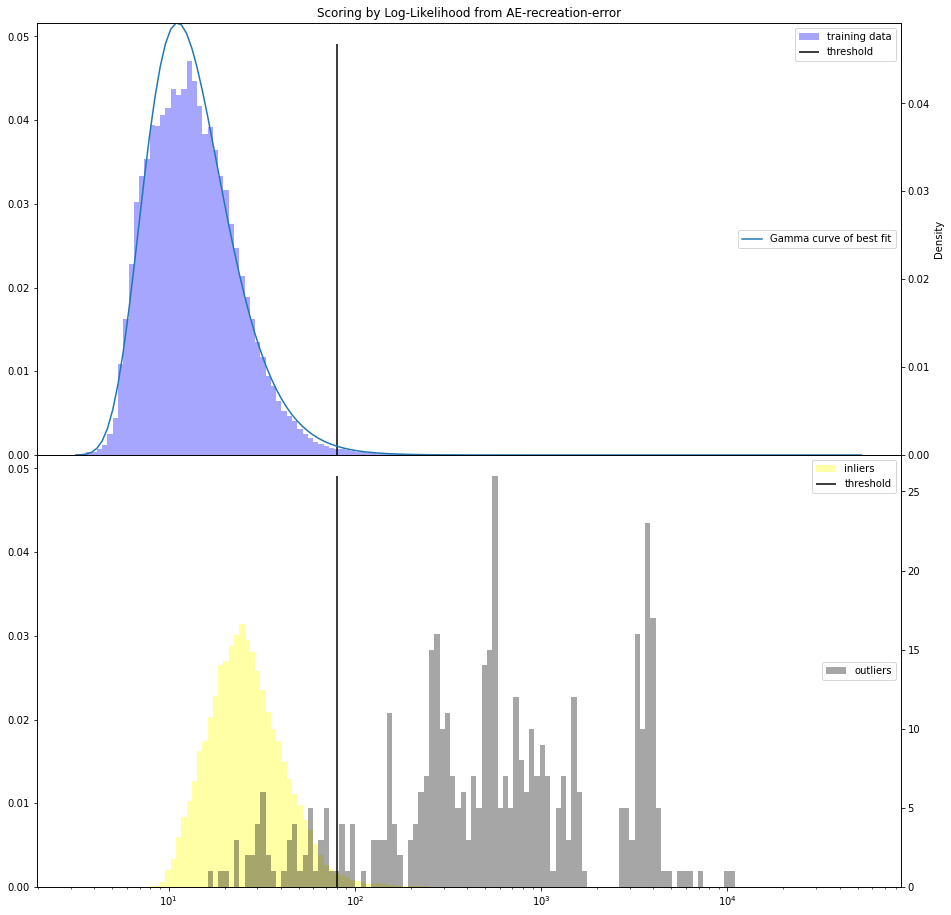
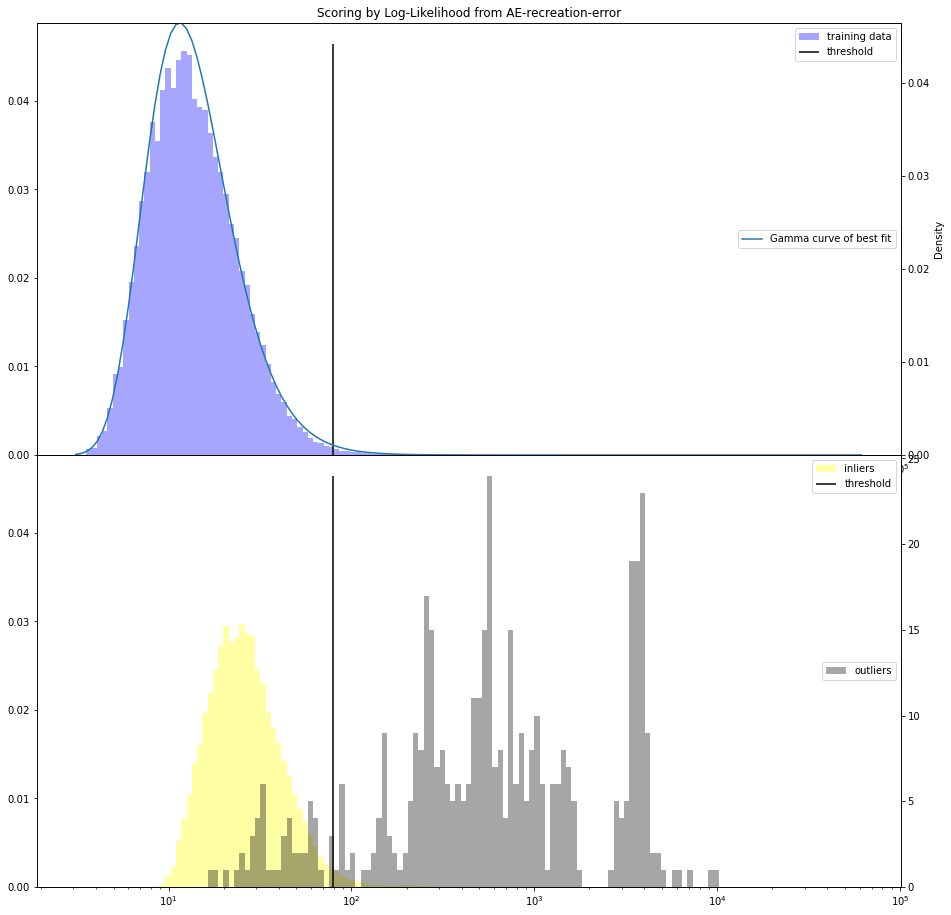
Sync Graphs and result text

diff --git a/README.md b/README.md
@@ -5,6 +5,7 @@ Exam project comparing two different machine learning models (KNN and AE) on a d
 You will need to download the data from: https://www.kaggle.com/mlg-ulb/creditcardfraud, and place it in the data folder to run the project. On the first ever execution, the preprocessing code will do all the nesecarry changes to this file and place the results under the data folder
 
 # Running the project:
+The easiest way to run the project is through Anaconda Spyder, but you can also run the project from the terminal
 ## KNN
 The KNN model has to be run from the src folder, from there run the knndist.py file either in and IDE or from the terminal.
 
@@ -17,96 +18,97 @@ Like KNN, but run the file autoencoder.py
 Typical result of an execution of the KNN code:
 ![KNN image](img/knn.png)
 ```
-predicting outliers based on knn classes
 predicting outliers based on knn outliers scores
-[[69901    11]
- [  131   318]]
+[[119797     25]
+ [   109    340]]
               precision    recall  f1-score   support
 
-         0.0       1.00      1.00      1.00     69912
-         1.0       0.97      0.71      0.82       449
+         0.0       1.00      1.00      1.00    119822
+         1.0       0.93      0.76      0.84       449
 
-    accuracy                           1.00     70361
-   macro avg       0.98      0.85      0.91     70361
-weighted avg       1.00      1.00      1.00     70361
+    accuracy                           1.00    120271
+   macro avg       0.97      0.88      0.92    120271
+weighted avg       1.00      1.00      1.00    120271
 
-AU-PRC: 0.6864225866750382
-baseline: 0.006381376046389335
-[[69467   445]
- [   96   353]]
+AU-PRC: 0.7062789564959764
+baseline: 0.0037332357758728205
+
+[[119072    750]
+ [    99    350]]
               precision    recall  f1-score   support
 
-         0.0       1.00      0.99      1.00     69912
-         1.0       0.44      0.79      0.57       449
+         0.0       1.00      0.99      1.00    119822
+         1.0       0.32      0.78      0.45       449
 
-    accuracy                           0.99     70361
-   macro avg       0.72      0.89      0.78     70361
-weighted avg       1.00      0.99      0.99     70361
+    accuracy                           0.99    120271
+   macro avg       0.66      0.89      0.72    120271
+weighted avg       1.00      0.99      0.99    120271
 
-AU-PRC: 0.5871356710114534
-baseline: 0.006381376046389335
-Threshold: 5.453659516922431
-Optimal threshold: 7.021158787236504
+AU-PRC: 0.4092182013415942
+baseline: 0.0037332357758728205
+Threshold: 5.278970487836807
+Optimal threshold: 6.671499368837428
 ```
 ## Autoencoder
-![KNN image](img/Ae-LL.png)
+![Ae-ll](img/Ae-LL.png)
 
 ```
 r2 report:
-[[116031   3576]
- [   132    317]]
+[[115883   3723]
+ [   168    281]]
               precision    recall  f1-score   support
 
-         0.0       1.00      0.97      0.98    119607
-         1.0       0.08      0.71      0.15       449
+         0.0       1.00      0.97      0.98    119606
+         1.0       0.07      0.63      0.13       449
 
-    accuracy                           0.97    120056
-   macro avg       0.54      0.84      0.57    120056
-weighted avg       1.00      0.97      0.98    120056
+    accuracy                           0.97    120055
+   macro avg       0.53      0.80      0.55    120055
+weighted avg       1.00      0.97      0.98    120055
 
-AU-PRC:   0.12034870433061656
-baseline: 0.0037399213700273206
-Threshold: 1.0290043293222664
-Optimal threshold: 1.090871774622069
+AU-PRC:   0.059480701265928936
+baseline: 0.0037399525217608597
+Threshold: 1.0538036036520326
+Optimal threshold: 1.0874440712669367
 
 AE-LL report:
-[[117753   1854]
- [    88    361]]
+[[110501   9105]
+ [    49    400]]
               precision    recall  f1-score   support
 
-         0.0       1.00      0.98      0.99    119607
-         1.0       0.16      0.80      0.27       449
+         0.0       1.00      0.92      0.96    119606
+         1.0       0.04      0.89      0.08       449
 
-    accuracy                           0.98    120056
-   macro avg       0.58      0.89      0.63    120056
-weighted avg       1.00      0.98      0.99    120056
+    accuracy                           0.92    120055
+   macro avg       0.52      0.91      0.52    120055
+weighted avg       1.00      0.92      0.96    120055
 
-AU-PRC:   0.32352661300064983
-baseline: 0.0037399213700273206
-Threshold: 232.80144134050897
-Optimal threshold: 265.8333236663422
+AU-PRC:   0.31884060146866505
+baseline: 0.0037399525217608597
+Threshold: 79.63714409945796
+Optimal threshold: 243.18283662872676
 
 direct-LL report:
-[[118254   1353]
- [   166    283]]
+[[114869   4737]
+ [    61    388]]
               precision    recall  f1-score   support
 
-         0.0       1.00      0.99      0.99    119607
-         1.0       0.17      0.63      0.27       449
+         0.0       1.00      0.96      0.98    119606
+         1.0       0.08      0.86      0.14       449
 
-    accuracy                           0.99    120056
-   macro avg       0.59      0.81      0.63    120056
-weighted avg       1.00      0.99      0.99    120056
+    accuracy                           0.96    120055
+   macro avg       0.54      0.91      0.56    120055
+weighted avg       1.00      0.96      0.98    120055
 
-AU-PRC:   0.2614251422041023
-baseline: 0.0037399213700273206
-Threshold: 186.50434548160416
-Optimal threshold: 138.69541913655996
+AU-PRC:   0.28141895166384373
+baseline: 0.0037399525217608597
+Threshold: 75.07279882307225
+Optimal threshold: 141.51047235194082
 ```
 ## Average AURPC scores on 20 iterations:
+
 | Support | Baseline | AE R²       | AE Log-likelihood | PureLog-likelihood | Mixed sample KNN; K = 10 | Inlier Only KNN; K=20 |
 |---------|----------|-------------|-------------------|--------------------|--------------------------|-----------------------|
-| 120492  | 0.0041   | 0.099BF 27  | 0.375 BF 145      | 0.310BF 109        | 0.706BF 588              | 0.457                 |
-| 70492   | 0.007    | 0.172 BF 29 | 0.460BF 120       | 0.407BF 97         | 0.738                    | 0.515                 |
-| 18467   | 0.027    | 0.387BF 22  | 0.706BF 86        | 0.664 BF 71        | 0.773                    | 0.717                 |
-| 6467    | 0.072    | 0.611BF 20  | 0.831 BF 63       | 0.811BF 55         | 0.778                    | 0.822BF 65            |
+| 120492  | 0.0041   | 0.099 BF 27  | 0.375 BF 145      | 0.310 BF 109       | 0.706 BF 588             | 0.457                |
+| 70492   | 0.007    | 0.172 BF 29  | 0.460 BF 120      | 0.407 BF 97        | 0.738                    | 0.515                |
+| 18467   | 0.027    | 0.387 BF 22  | 0.706 BF 86       | 0.664 BF 71        | 0.773                    | 0.717                |
+| 6467    | 0.072    | 0.611 BF 20  | 0.831 BF 63       | 0.811 BF 55        | 0.778                    | 0.822 BF 65          |
